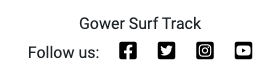
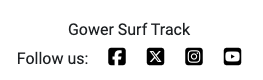
add features screenshots

diff --git a/README.md b/README.md
@@ -129,9 +129,9 @@ The Surf Track platform is designed with a clean, intuitive interface to provide
 
 - Displays the website name.
 - Contains social media links with the prompt "Follow us" for user engagement.
-- Links to Facebook, Twitter, Instagram, and YouTube.
+- Links to Facebook, X, Instagram, and YouTube.
 
-
+![Footer](documentation/features/footer.png)
 
 **Responsiveness**:  
 - The footer is fixed at the bottom of the page regardless of content size.
@@ -144,11 +144,17 @@ The Surf Track platform is designed with a clean, intuitive interface to provide
 - The home page serves as a dynamic feed displaying the latest surf sessions logged by users.
 
 **For Non-Logged-In Users**:  
+
+![Home Logged Out User](documentation/features/logged-out-home-desktop.png)
+
 - The home page displays a welcome message and prompts users to log in or sign up.  
 - A list is displayed, detailing the benefits of joining the platform, such as tracking surf sessions and learning from other surfers.
 - A call-to-action button for the user to login and a link if they need to sign up.
 
 **For Logged-In Users**:  
+
+![Home Logged In User](documentation/features/logged-in-home-desktop.png)
+
 - Displays a table of the latest surf sessions posted by users in reverse chronological order.  
 - Columns include:
   - **User** – The surfer who logged the session.
@@ -157,17 +163,33 @@ The Surf Track platform is designed with a clean, intuitive interface to provide
   - **Wave Rating** – Overall rating of wave conditions (hidden on smaller screens for responsiveness).  
   - **Details** – A button labeled "View Details" opens a modal with full session information.
 
+![Home Logged In Table Columns](documentation/features/home-page-logged-in-table-info-desktop.png)
+
+
 **Pagination**:  
 - Sessions are paginated, with 10 sessions per page.  
 - Navigation buttons ("Next" and "Previous") allow users to switch between pages, ensuring a seamless browsing experience.  
 - On the last page, only the "Previous" button is visible to indicate no further sessions are available.
 
-**Modal View**:  
+![First Page Pagination](documentation/features/first-page-pagination.png)
+![Mid Page Pagination](documentation/features/mid-page-pagination.png)
+![Last Page Pagination](documentation/features/last-page-pagination.png)
+
+**Modal View**:
+
+![View Details Modal](documentation/features/home-view-details-modal.png)
+
 - Clicking "View Details" opens a modal that displays:
-  - Full session details (user, location, wave height, wind speed, tide, surfboard used, and additional notes).  
+  - Full session details (user, location, wave height, wind speed, tide, surfboard used, and additional notes).
+
+- If the session belongs to the logged in user, some text is dispalyed informing them that if they wish to edit or delete this sessions, then they should visit the 'My Sessions" page, and provides a link.
+
+![View Details Modal Message](documentation/features/home-view-details-edit-delete-message.png)
 
 **Responsiveness**:  
 - The wave rating column is hidden on smaller screens to prevent horizontal scrolling and ensure the table fits neatly.
+
+![Home Mobile](documentation/features/home-page-table-mobile.png)
 
 ---
 
@@ -176,8 +198,20 @@ The Surf Track platform is designed with a clean, intuitive interface to provide
 - Displays a list of surf sessions logged by the currently authenticated user.
 
 **For Logged-In Users**:  
-- Available only to logged-in users. Non-authenticated users will not see the "My Sessions" link in the navigation bar.  
-- If no sessions are logged, users see a message with a call-to-action button encouraging them to log their first session.  
+- Available only to logged-in users. Non-authenticated users will not see the "My Sessions" link in the navigation bar.
+
+![Logged Out Header](documentation/features/logged-out-header-desktop.png)
+
+** No Sessions Logged**:
+- If no sessions are logged, users see a message with a call-to-action button encouraging them to log their first session.
+
+![My Sessions - No Sessions](documentation/features/my-sessions-no-sessions.png)
+
+**Sessions Logged**:
+
+- If sessions are logged, users see a table similar to the home page dispalying a list of only their surf sessions.
+
+![My Sessions - Sessions](documentation/features/my-sessions-with-sessions.png)
 
 **Table of Sessions**:  
 - Sessions are shown in reverse chronological order, with columns for:  
@@ -188,23 +222,46 @@ The Surf Track platform is designed with a clean, intuitive interface to provide
   - **Details** – "View Details" button opens a modal with session information.  
   - **Edit/Delete** – "Edit" and "Delete" buttons to allow users to manage their sessions.  
 
+**View Details Modal View**:
+
+![View Details Modal](documentation/features/my-sessions-view-details-modal.png)
+
 **Edit/Delete Column**:  
 - **Edit** – Redirects to an edit form prefilled with session data.  
-- **Delete** – Opens a confirmation modal to ensure intentional deletion.  
+- **Delete** – Opens a confirmation modal with 'cancel' and 'delete' buttons to ensure intentional deletion.
+             - Upon deletion a success message is displayed and the user is redirected back to the 'My Sessions" page with the session deleted.
+
+![Delete Modal](documentation/features/my-sessions-delete-modal.png)
+![Successful Deletion](documentation/features/successful-deletion.png)
+
 
 **Pagination**:  
 - Displays 10 sessions per page, with pagination links for easy navigation between older and newer sessions.
 - On the last page, only the "Previous" button is visible to indicate no further sessions are available.  
 
+![First Page Pagination](documentation/features/first-page-pagination.png)
+![Mid Page Pagination](documentation/features/mid-page-pagination.png)
+![Last Page Pagination](documentation/features/last-page-pagination.png)
+
+**Responsiveness**:  
+- The user and wave rating columns are hidden on smaller screens to prevent horizontal scrolling and ensure the table fits neatly.
+
+![My Sessions Mobile](documentation/features/my-sessions-table-mobile.png)
+
+
 ---
 
 ### Log Session Page
 
+![Log Session Form](documentation/features/log-session-form-1.png)
+
+![Log Session Form](documentation/features/log-session-form-2.png)
+
 - Provides a form for users to log a new surf session.
 - The form automatically assigns the logged in user to the session.
 - Form fields include:
-  - **Date** – Select a date (date picker).  
-  - **Time** – Time of the session.  
+  - **Date** – Select a date (date picker), default is set to the current date  
+  - **Time** – Time of the session, default is set to 00:00
   - **Location** – Drop-down list of predefined surf spots.  
   - **Wave Height** – Enter wave height in feet.  
   - **Wind Speed** – Wind speed (mph).  
@@ -219,46 +276,73 @@ The Surf Track platform is designed with a clean, intuitive interface to provide
 - Fields with an asterix must be filled in.  
 
 **Success/Error Feedback**:  
-- Users receive a success message if the form is submitted successfully.  
-- Form errors are displayed inline for individual fields if validation fails.  
+- Users is redirected to the home page and receives a success message if the form is submitted successfully.
+
+![Log Session Success](documentation/features/log-session-success.png)
+
+- Form errors are displayed inline for individual fields if validation fails. 
+
+![Log Session Fail](documentation/features/log-session-error-message.png)
 
 ---
 
 ### Edit Session Page
 
+![Edit Session Form](documentation/features/edit-session-form-1.png)
+
+![Edit Session Form](documentation/features/edit-session-form-2.png)
+
 - Similar to the log session page but pre-populated with the session’s existing data.  
-- Users can modify session details and save changes.
-- Cancel button is available, if users change their mind, and are then redirected back to 'My Sessions' page.  
+- Users can modify session details and save changes, or  click 'cancel' be redirected back to the 'My Sessions" page.  
 
 **Access Control**:  
-- Only the user who created the session can access and edit it.  
-- Unauthorized users attempting to access the edit page are redirected.  
+- Only the user who created the session can access and edit it.    
 
 **Success/Error Feedback**:  
-- Success message on successful update.  
-- Inline error messages for validation issues.  
+- Success message on successful update. and redircteion back to the 'My Sessions' Page.  
+
+![Edit Session Success](documentation/features/edit-session-success.png)
+
+- Inline error messages for validation issues.
+
+![Edit Session Fail](documentation/features/edit-session-fail.png)
 
 ---
 
 ### Register Page
 
+![Sign Up Page](documentation/features/sign-up-form.png)
+
 - Provides a form for new users to create an account. 
-- Prompt for users who already have an acoount to sign in. 
+- Prompt for users who already have an acoount to sign in.
+
+![Sign In Link](documentation/features/register-sign-in-link.png)
+
 - Form fields include:  
   - **Username**  
   - **Email**  
   - **Password (twice for confirmation)**
 
 **Success/Error Feedback**: 
-- Error messages are displayed inline for invalid inputs.  
-- Successful registration redirects users to the home page.  
+- Error messages are displayed inline for invalid inputs.
+
+![Sign Up Error](documentation/features/sign-up-error.png)
+
+- Successful registration redirects users to the home page and displays a success message. 
+
+![Sign Up Success](documentation/features/sign-up-success.png)
 
 ---
 
 ### Login Page
 
+![Log In Page](documentation/features/log-in-page.png)
+
 - Allows existing users to log into their accounts.
-- Prompt for users who don't have an account yet to sign up.  
+- Prompt for users who don't have an account yet to sign up with link. 
+
+![Sign Up Message and Link](documentation/features/log-in-sign-up-message.png)
+
 - Form fields:  
   - **Username/Email**  
   - **Password**  
@@ -266,17 +350,26 @@ The Surf Track platform is designed with a clean, intuitive interface to provide
 
 **Success/Error Feedback**:
 - Users receive an error message if authentication fails.
-- Successful login reieves a success messages and redirects users to the home page.   
+
+![Sign In Error](documentation/features/sign-in-error.png)
+
+- Successful login reieves a success messages and redirects users to the home page.
+
+![Sign In Success](documentation/features/sign-in-success.png)
 
 ---
 
 ### Logout Page
+
+![Log Out Page](documentation/features/sign-out-page.png)
 
 - Simple confirmation page asking users if they want to log out.  
 - Clicking "Sign Out" logs the user out and redirects to the home page.  
 
 **Success Feedback**:
 - Successful sign out receives a success message.
+
+![Log Out Success](documentation/features/sign-out-success.png)
 
 ---
 ## Design
